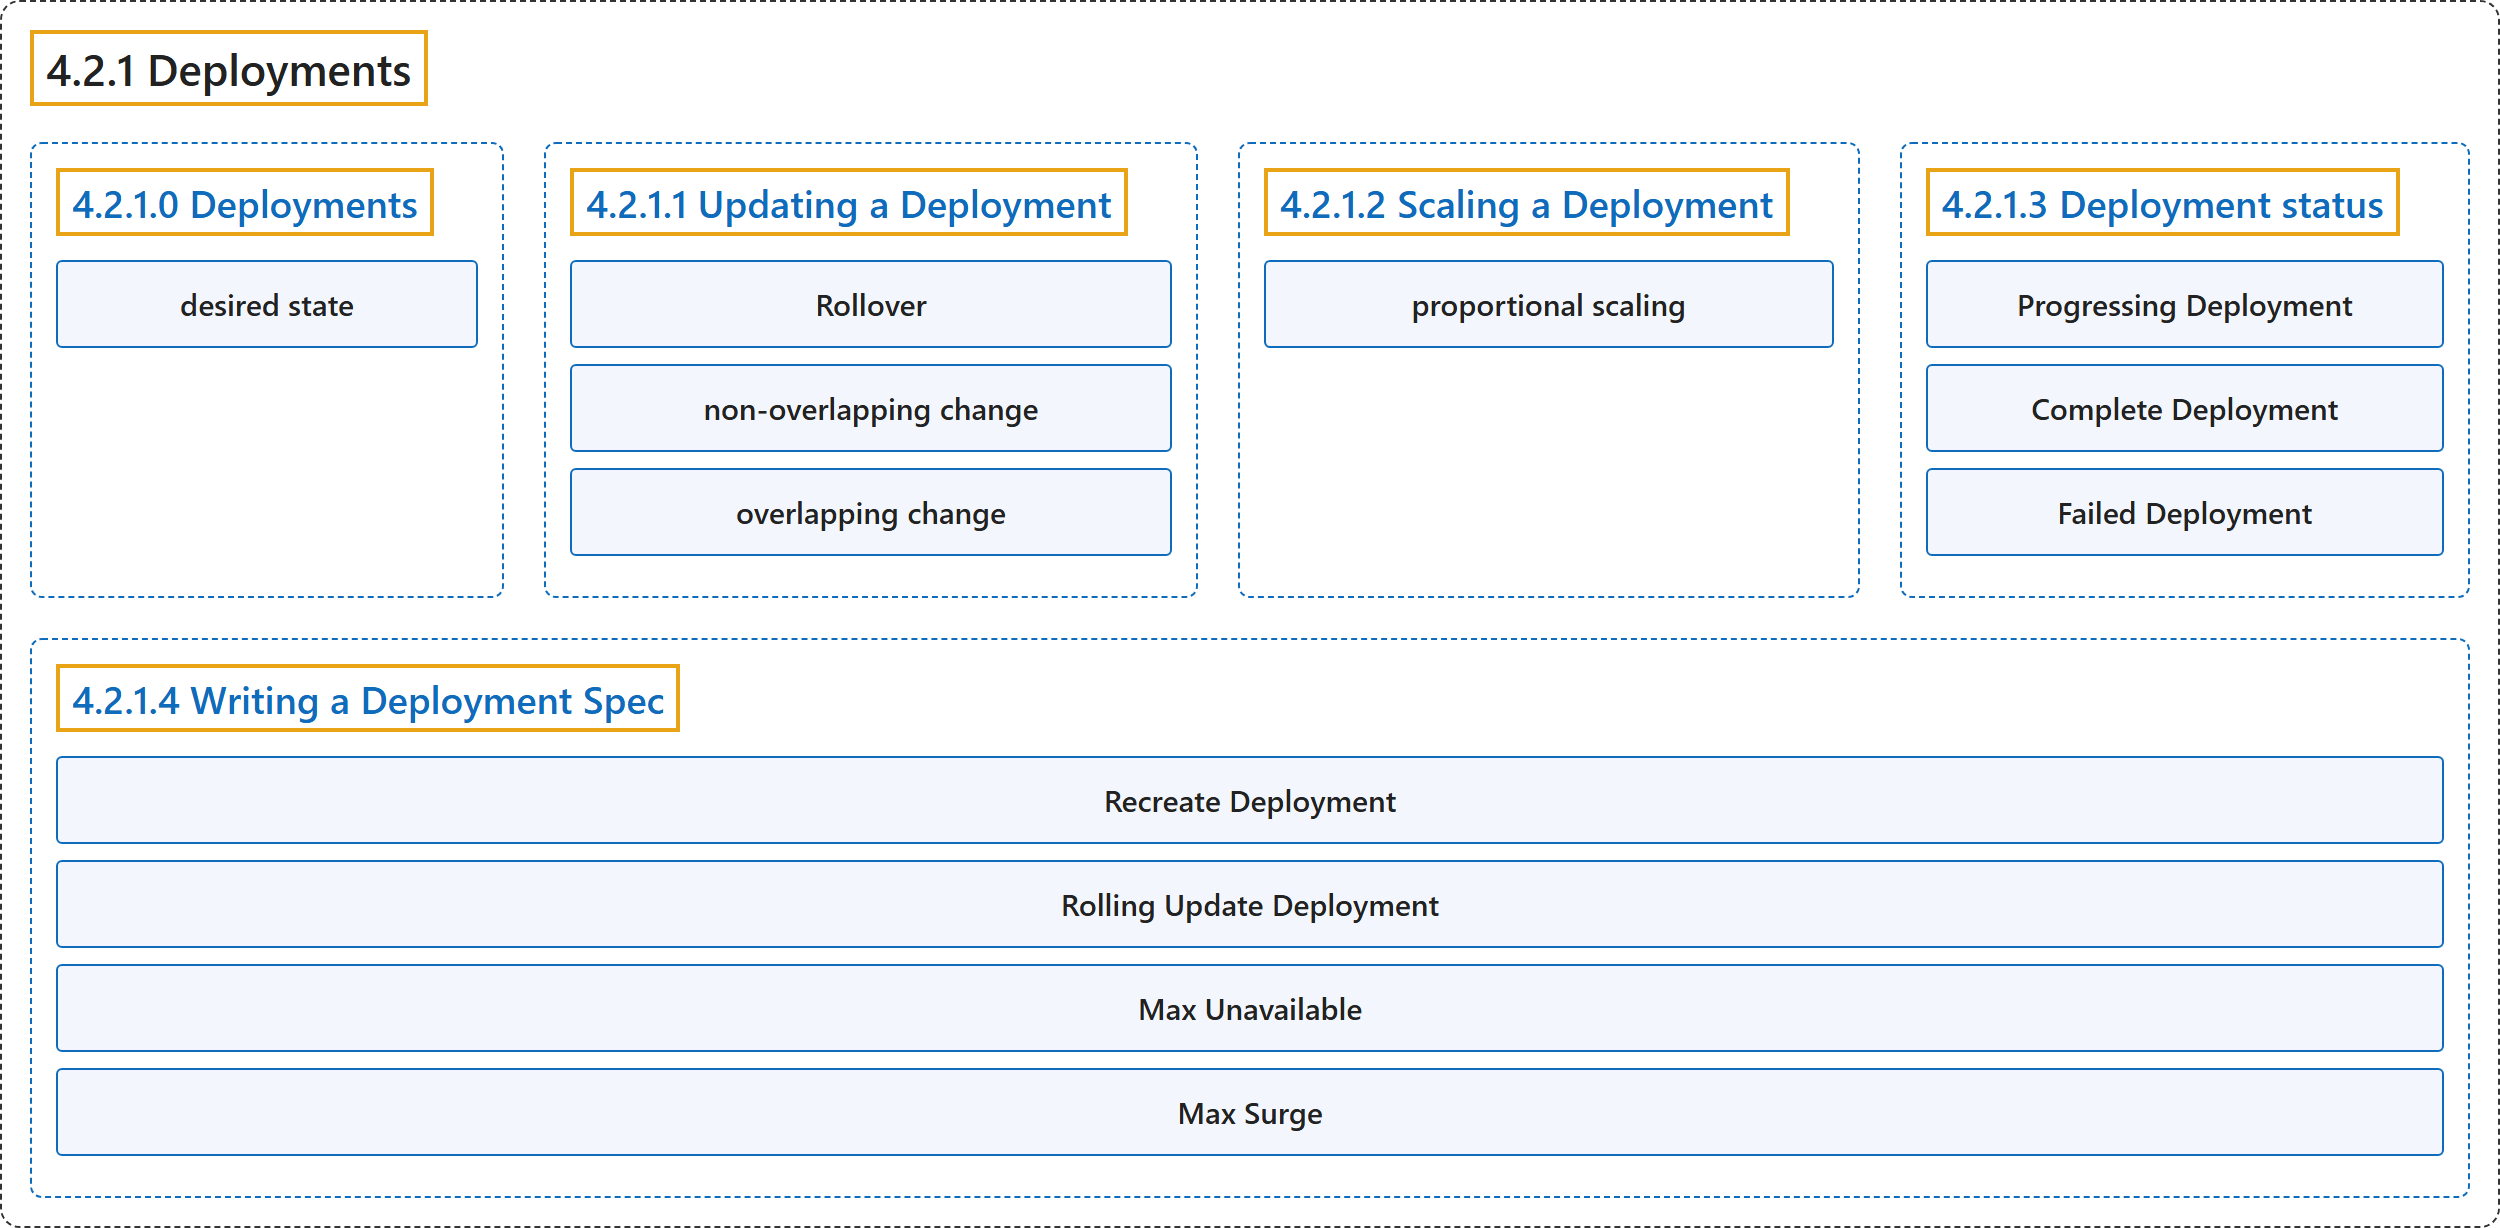
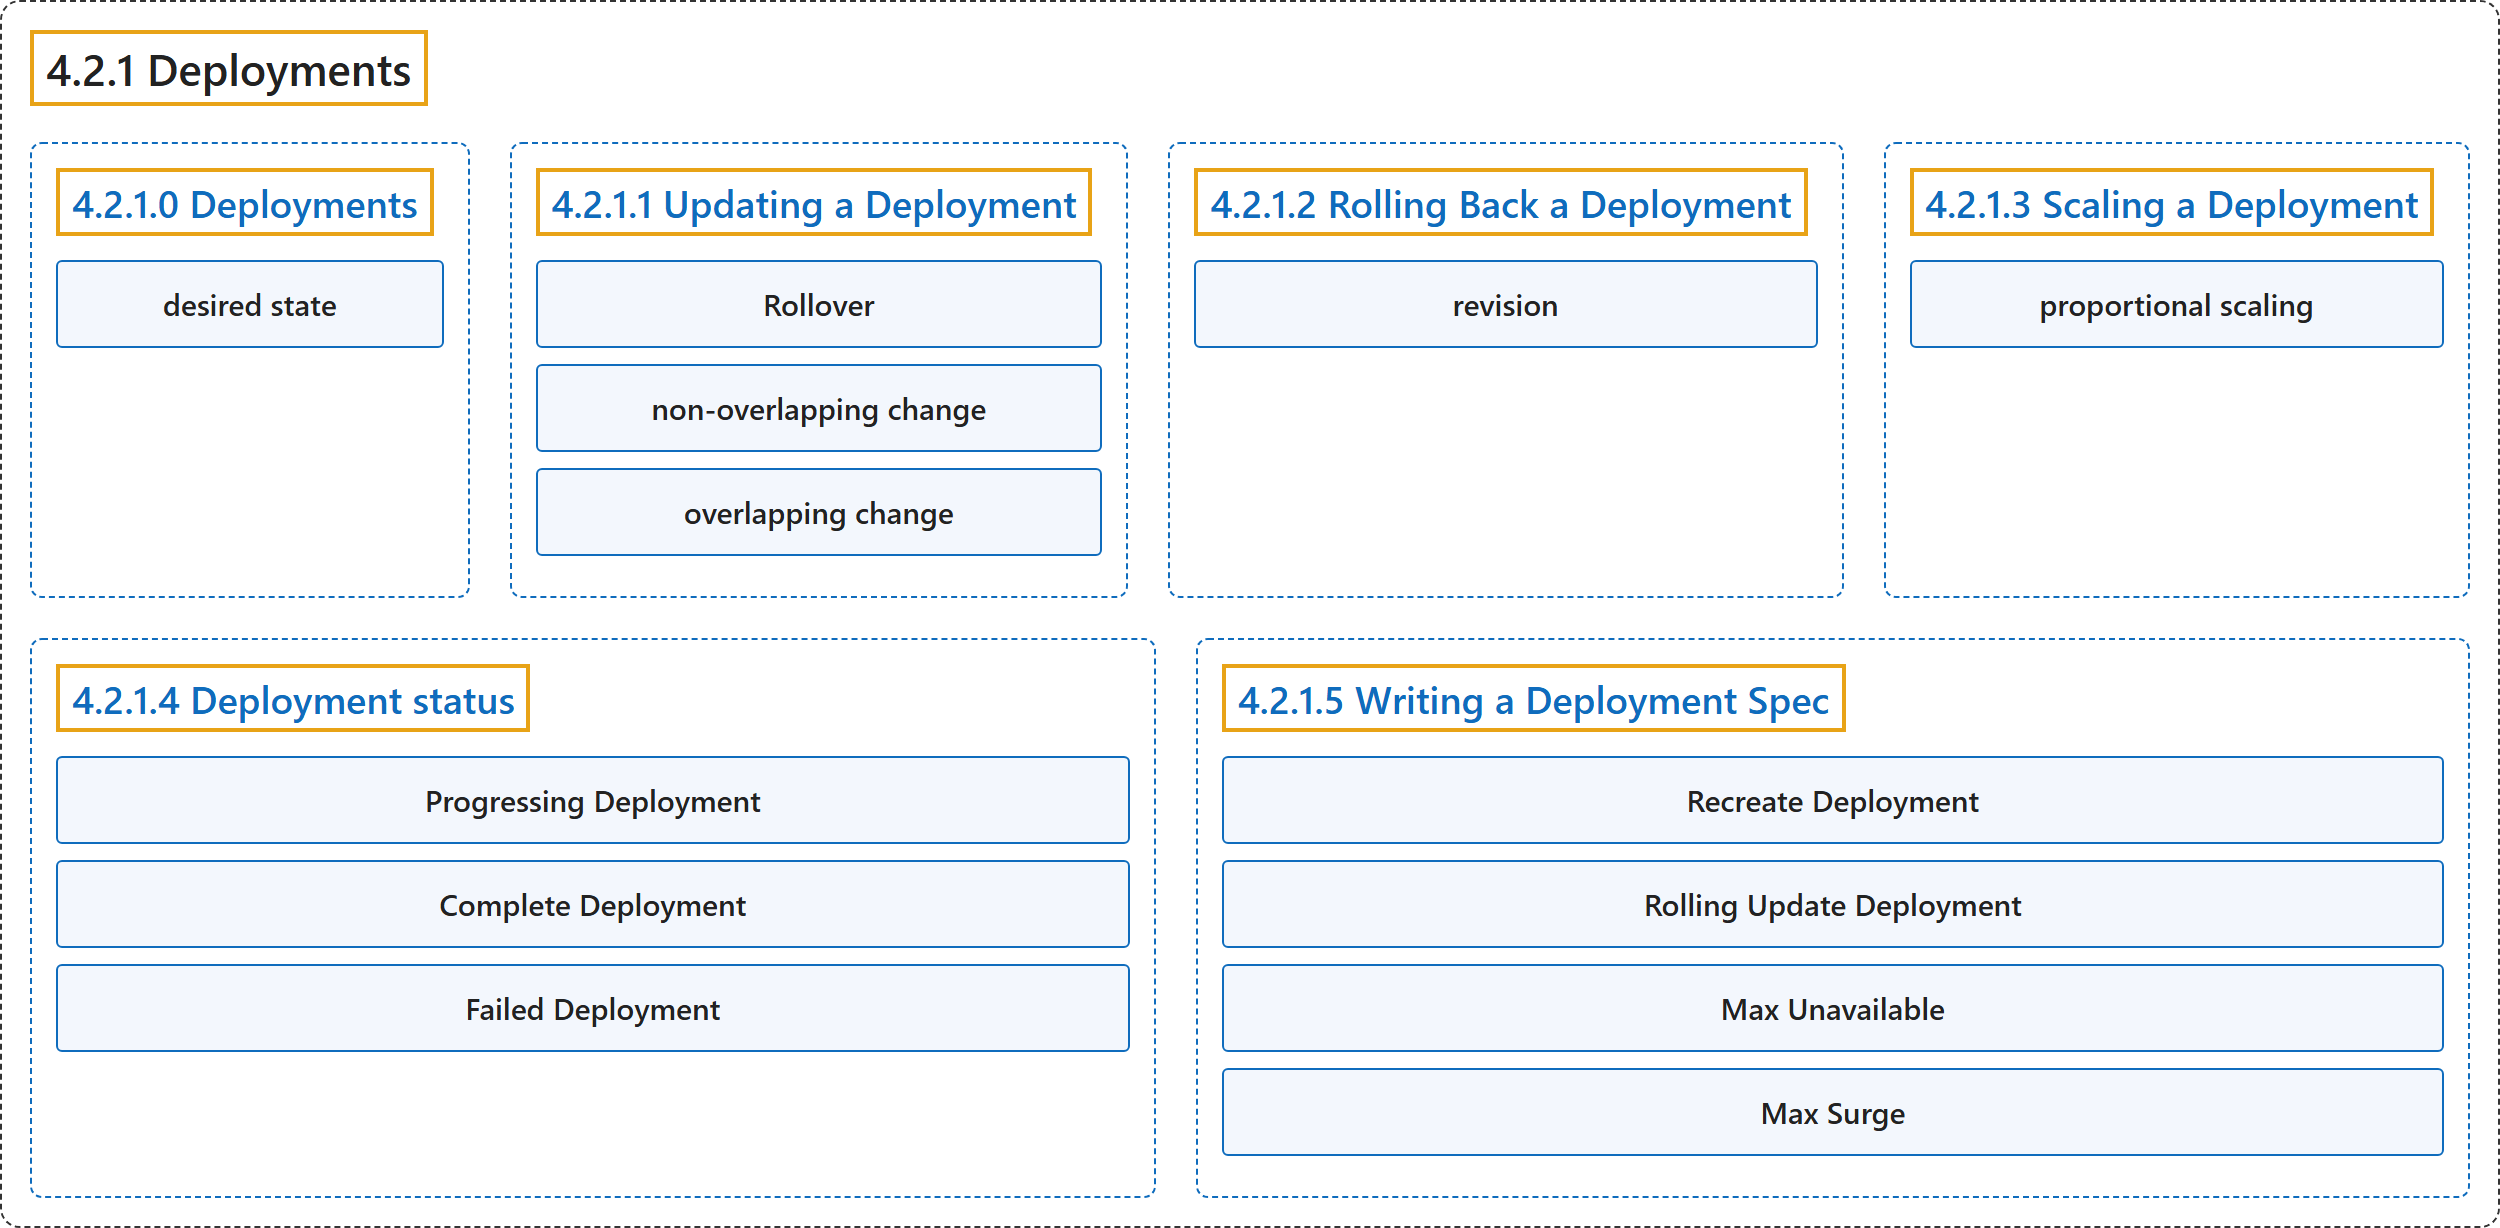
feat(kubernetes): 4.2.1 Deployments gains 4.2.1.2 Rolling Back a Deployment with its term revision (CST8915 Week 9); later sections renumbered 4.2.1.3 to 4.2.1.5; figure re-rendered; README notes the hand-added group

diff --git a/figures/cloud/kubernetes/workloads-controllers-deployment.html b/figures/cloud/kubernetes/workloads-controllers-deployment.html
@@ -29,17 +29,21 @@
       <div class="item">overlapping change</div>
     </div>
     <div class="group">
-      <div class="title">4.2.1.2 Scaling a Deployment</div>
+      <div class="title">4.2.1.2 Rolling Back a Deployment</div>
+      <div class="item">revision</div>
+    </div>
+    <div class="group">
+      <div class="title">4.2.1.3 Scaling a Deployment</div>
       <div class="item">proportional scaling</div>
     </div>
     <div class="group">
-      <div class="title">4.2.1.3 Deployment status</div>
+      <div class="title">4.2.1.4 Deployment status</div>
       <div class="item">Progressing Deployment</div>
       <div class="item">Complete Deployment</div>
       <div class="item">Failed Deployment</div>
     </div>
     <div class="group">
-      <div class="title">4.2.1.4 Writing a Deployment Spec</div>
+      <div class="title">4.2.1.5 Writing a Deployment Spec</div>
       <div class="item">Recreate Deployment</div>
       <div class="item">Rolling Update Deployment</div>
       <div class="item">Max Unavailable</div>

diff --git a/docs/cloud/kubernetes/workloads/controllers/deployment.md b/docs/cloud/kubernetes/workloads/controllers/deployment.md
@@ -1,7 +1,7 @@
 ---
 title: "4.2.1 Deployments"
-description: "Kubernetes, 4.2.1 Deployments: 4.2.1.0 Deployments, 4.2.1.1 Updating a Deployment, 4.2.1.2 Scaling a Deployment, 4.2.1.3 Deployment status, 4.2.1.4 Writing a Deployment Spec."
-ms.date: 2026-10-31
+description: "Kubernetes, 4.2.1 Deployments: 4.2.1.0 Deployments, 4.2.1.1 Updating a Deployment, 4.2.1.2 Rolling Back a Deployment, 4.2.1.3 Scaling a Deployment, 4.2.1.4 Deployment status, 4.2.1.5 Writing a Deployment Spec."
+ms.date: 2026-11-04
 ---
 
 # 4.2.1 Deployments
@@ -21,13 +21,15 @@ ms.date: 2026-10-31
 | **Rollover**<br>滚动覆盖 | (context) "Each time a new Deployment is observed by the Deployment controller, **a ReplicaSet is created to bring up the desired Pods**." | （语境）Deployment 控制器每观察到一个新的 Deployment，**就创建一个 ReplicaSet 来启动期望的 Pod**。 | [The Kubernetes Authors, n.d., "Rollover (aka multiple updates in-flight)", para. 1](https://kubernetes.io/docs/concepts/workloads/controllers/deployment/#:~:text=Each%20time%20a%20new%20Deployment%20is%20observed) |
 | **non-overlapping change**<br>不重叠的变更 | (context) "This is a *non-overlapping* change: **the new Deployment will not "see" the old Pods** (which lack the new label)" | （语境）这是一种*不重叠*的变更：**新的 Deployment 不会“看到”旧的 Pod**（它们缺少新标签） | [The Kubernetes Authors, n.d., "Label selector updates", para. 3](https://kubernetes.io/docs/concepts/workloads/controllers/deployment/#:~:text=This%20is%20a%20%2Anon-overlapping%2A%20change%3A%20the%20new) |
 | **overlapping change**<br>重叠的变更 | (context) "This is an *overlapping* change: **the new, broader selector would match the old Pods**." | （语境）这是一种*重叠*的变更：**新的、更宽泛的选择算符会匹配旧的 Pod**。 | [The Kubernetes Authors, n.d., "Label selector updates", para. 5](https://kubernetes.io/docs/concepts/workloads/controllers/deployment/#:~:text=This%20is%20an%20%2Aoverlapping%2A%20change%3A%20the%20new%2C) |
-| **4.2.1.2 Scaling a Deployment**<br>扩缩 Deployment | (No definition) | （无定义） | [The Kubernetes Authors, n.d., "Scaling a Deployment"](https://kubernetes.io/docs/concepts/workloads/controllers/deployment/#scaling-a-deployment) |
+| **4.2.1.2 Rolling Back a Deployment**<br>回滚 Deployment | (context) "Sometimes, you may want to **rollback a Deployment**; for example, **when the Deployment is not stable**, such as crash looping." | （语境）有时你可能想要**回滚 Deployment**，例如**在 Deployment 不稳定时**，比如崩溃循环。 | [The Kubernetes Authors, n.d., "Rolling Back a Deployment", para. 1](https://kubernetes.io/docs/concepts/workloads/controllers/deployment/#:~:text=Sometimes%2C%20you%20may%20want%20to%20rollback%20a) |
+| **revision**<br>修订版本 | "A Deployment's revision is **created when a Deployment's rollout is triggered**. This means that the new revision is created **if and only if the Deployment's Pod template (`.spec.template`) is changed**, for example if you update the labels or container images of the template." | Deployment 的修订版本**在 Deployment 的上线被触发时创建**。这意味着新的修订版本**当且仅当 Deployment 的 Pod 模板（`.spec.template`）发生变更时才会创建**，例如你更新了模板的标签或容器镜像。 | [The Kubernetes Authors, n.d., "Rolling Back a Deployment", Note, para. 1](https://kubernetes.io/docs/concepts/workloads/controllers/deployment/#:~:text=A%20Deployment%27s%20revision%20is%20created%20when) |
+| **4.2.1.3 Scaling a Deployment**<br>扩缩 Deployment | (No definition) | （无定义） | [The Kubernetes Authors, n.d., "Scaling a Deployment"](https://kubernetes.io/docs/concepts/workloads/controllers/deployment/#scaling-a-deployment) |
 | **proportional scaling**<br>按比例扩缩 | (context) "This is called *proportional scaling*." | （语境）这称为*按比例扩缩*。 | [The Kubernetes Authors, n.d., "Proportional scaling", para. 1](https://kubernetes.io/docs/concepts/workloads/controllers/deployment/#:~:text=This%20is%20called%20%2Aproportional%20scaling%2A.) |
-| **4.2.1.3 Deployment status**<br>Deployment 状态 | "A Deployment **enters various states during its lifecycle**." | Deployment **在其生命周期中会进入多种状态**。 | [The Kubernetes Authors, n.d., "Deployment status", para. 1](https://kubernetes.io/docs/concepts/workloads/controllers/deployment/#:~:text=A%20Deployment%20enters%20various%20states%20during%20its) |
+| **4.2.1.4 Deployment status**<br>Deployment 状态 | "A Deployment **enters various states during its lifecycle**." | Deployment **在其生命周期中会进入多种状态**。 | [The Kubernetes Authors, n.d., "Deployment status", para. 1](https://kubernetes.io/docs/concepts/workloads/controllers/deployment/#:~:text=A%20Deployment%20enters%20various%20states%20during%20its) |
 | **Progressing Deployment**<br>进行中的 Deployment | (context) "Kubernetes marks a Deployment as *progressing* **when one of the following tasks is performed**:" | （语境）Kubernetes **在执行以下任一任务时**把 Deployment 标记为*进行中*： | [The Kubernetes Authors, n.d., "Progressing Deployment", para. 1](https://kubernetes.io/docs/concepts/workloads/controllers/deployment/#:~:text=Kubernetes%20marks%20a%20Deployment%20as%20%2Aprogressing%2A%20when) |
 | **Complete Deployment**<br>已完成的 Deployment | (context) "Kubernetes marks a Deployment as *complete* **when it has the following characteristics**:" | （语境）Kubernetes **在 Deployment 具备以下特征时**把它标记为*已完成*： | [The Kubernetes Authors, n.d., "Complete Deployment", para. 1](https://kubernetes.io/docs/concepts/workloads/controllers/deployment/#:~:text=Kubernetes%20marks%20a%20Deployment%20as%20%2Acomplete%2A%20when) |
 | **Failed Deployment**<br>失败的 Deployment | (context) "Your Deployment may get **stuck trying to deploy its newest ReplicaSet without ever completing**." | （语境）你的 Deployment 可能会**卡在部署最新 ReplicaSet 的过程中，始终无法完成**。 | [The Kubernetes Authors, n.d., "Failed Deployment", para. 1](https://kubernetes.io/docs/concepts/workloads/controllers/deployment/#:~:text=Your%20Deployment%20may%20get%20stuck%20trying%20to) |
-| **4.2.1.4 Writing a Deployment Spec**<br>编写 Deployment 规约 | (context) "As with all other Kubernetes configs, **a Deployment needs `.apiVersion`, `.kind`, and `.metadata` fields**." | （语境）与其他所有 Kubernetes 配置一样，**Deployment 需要 `.apiVersion`、`.kind` 和 `.metadata` 字段**。 | [The Kubernetes Authors, n.d., "Writing a Deployment Spec", para. 1](https://kubernetes.io/docs/concepts/workloads/controllers/deployment/#:~:text=As%20with%20all%20other%20Kubernetes%20configs%2C%20a) |
+| **4.2.1.5 Writing a Deployment Spec**<br>编写 Deployment 规约 | (context) "As with all other Kubernetes configs, **a Deployment needs `.apiVersion`, `.kind`, and `.metadata` fields**." | （语境）与其他所有 Kubernetes 配置一样，**Deployment 需要 `.apiVersion`、`.kind` 和 `.metadata` 字段**。 | [The Kubernetes Authors, n.d., "Writing a Deployment Spec", para. 1](https://kubernetes.io/docs/concepts/workloads/controllers/deployment/#:~:text=As%20with%20all%20other%20Kubernetes%20configs%2C%20a) |
 | **Recreate Deployment**<br>Recreate 策略 | "**All existing Pods are killed before new ones are created** when `.spec.strategy.type==Recreate`." | 当 `.spec.strategy.type==Recreate` 时，**先杀死所有现有 Pod，再创建新的 Pod**。 | [The Kubernetes Authors, n.d., "Recreate Deployment", para. 1](https://kubernetes.io/docs/concepts/workloads/controllers/deployment/#:~:text=All%20existing%20Pods%20are%20killed%20before%20new) |
 | **Rolling Update Deployment**<br>RollingUpdate 策略 | "The Deployment **updates Pods in a rolling update fashion (gradually scale down the old ReplicaSets and scale up the new one)** when `.spec.strategy.type==RollingUpdate`." | 当 `.spec.strategy.type==RollingUpdate` 时，Deployment **以滚动更新方式更新 Pod（逐步缩容旧的 ReplicaSet、扩容新的 ReplicaSet）**。 | [The Kubernetes Authors, n.d., "Rolling Update Deployment", para. 1](https://kubernetes.io/docs/concepts/workloads/controllers/deployment/#:~:text=The%20Deployment%20updates%20Pods%20in%20a%20rolling) |
 | **Max Unavailable**<br>最大不可用 | "`.spec.strategy.rollingUpdate.maxUnavailable` is an optional field that **specifies the maximum number of Pods that can be unavailable during the update process**." | `.spec.strategy.rollingUpdate.maxUnavailable` 是一个可选字段，**指定更新过程中最多可以有多少个 Pod 不可用**。 | [The Kubernetes Authors, n.d., "Max Unavailable", para. 1](https://kubernetes.io/docs/concepts/workloads/controllers/deployment/#:~:text=%60.spec.strategy.rollingUpdate.maxUnavailable%60%20is%20an%20optional%20field%20that%20specifies) |

diff --git a/docs/cloud/kubernetes/README.md b/docs/cloud/kubernetes/README.md
@@ -6,6 +6,8 @@ The site lists the official menu as it stands, names, order and nesting unchange
 
 Status (2026-10-31): all 14 groups are written. A group or entry whose own page has text and pages under it is a chapter: its own text is page 0 (1.2.0, 2.0, 4.1.0 and the like), and its index page lists page 0 and the pages under it. A page's sections that hold terms are its groups, its opening is group 0, and terms are quoted from the page; on pages that open with a feature-state banner the entry row quotes the first defining sentence. Every quote is checked against the cache by the generator, and every page by script for italic concept names missing from its Glossary (README, "Levels, numbers and figures of a source").
 
+Added by hand (2026-11-04): 4.2.1 Deployments gains 4.2.1.2 Rolling Back a Deployment with its term revision, a concept the page names in plain text in that section's Note (CST8915 Week 9 names rollbacks); the later sections moved to 4.2.1.3 to 4.2.1.5.
+
 Left out on the pages (besides the noise kinds of the ROS 2 README): field paths, flags and command-line options; tables of fields, metrics and examples; FAQ, troubleshooting, good-practice and limitation sections. Three quotes stop before a phrase the source sets in bold (leader election on Running multiple schedulers, hierarchical quorum on Gang Scheduling, PodGroup scheduling cycle), since the quote check strips bold; those bold names are not boxes yet.
 
 Left out (no terms, by the menu's own labels or content):
